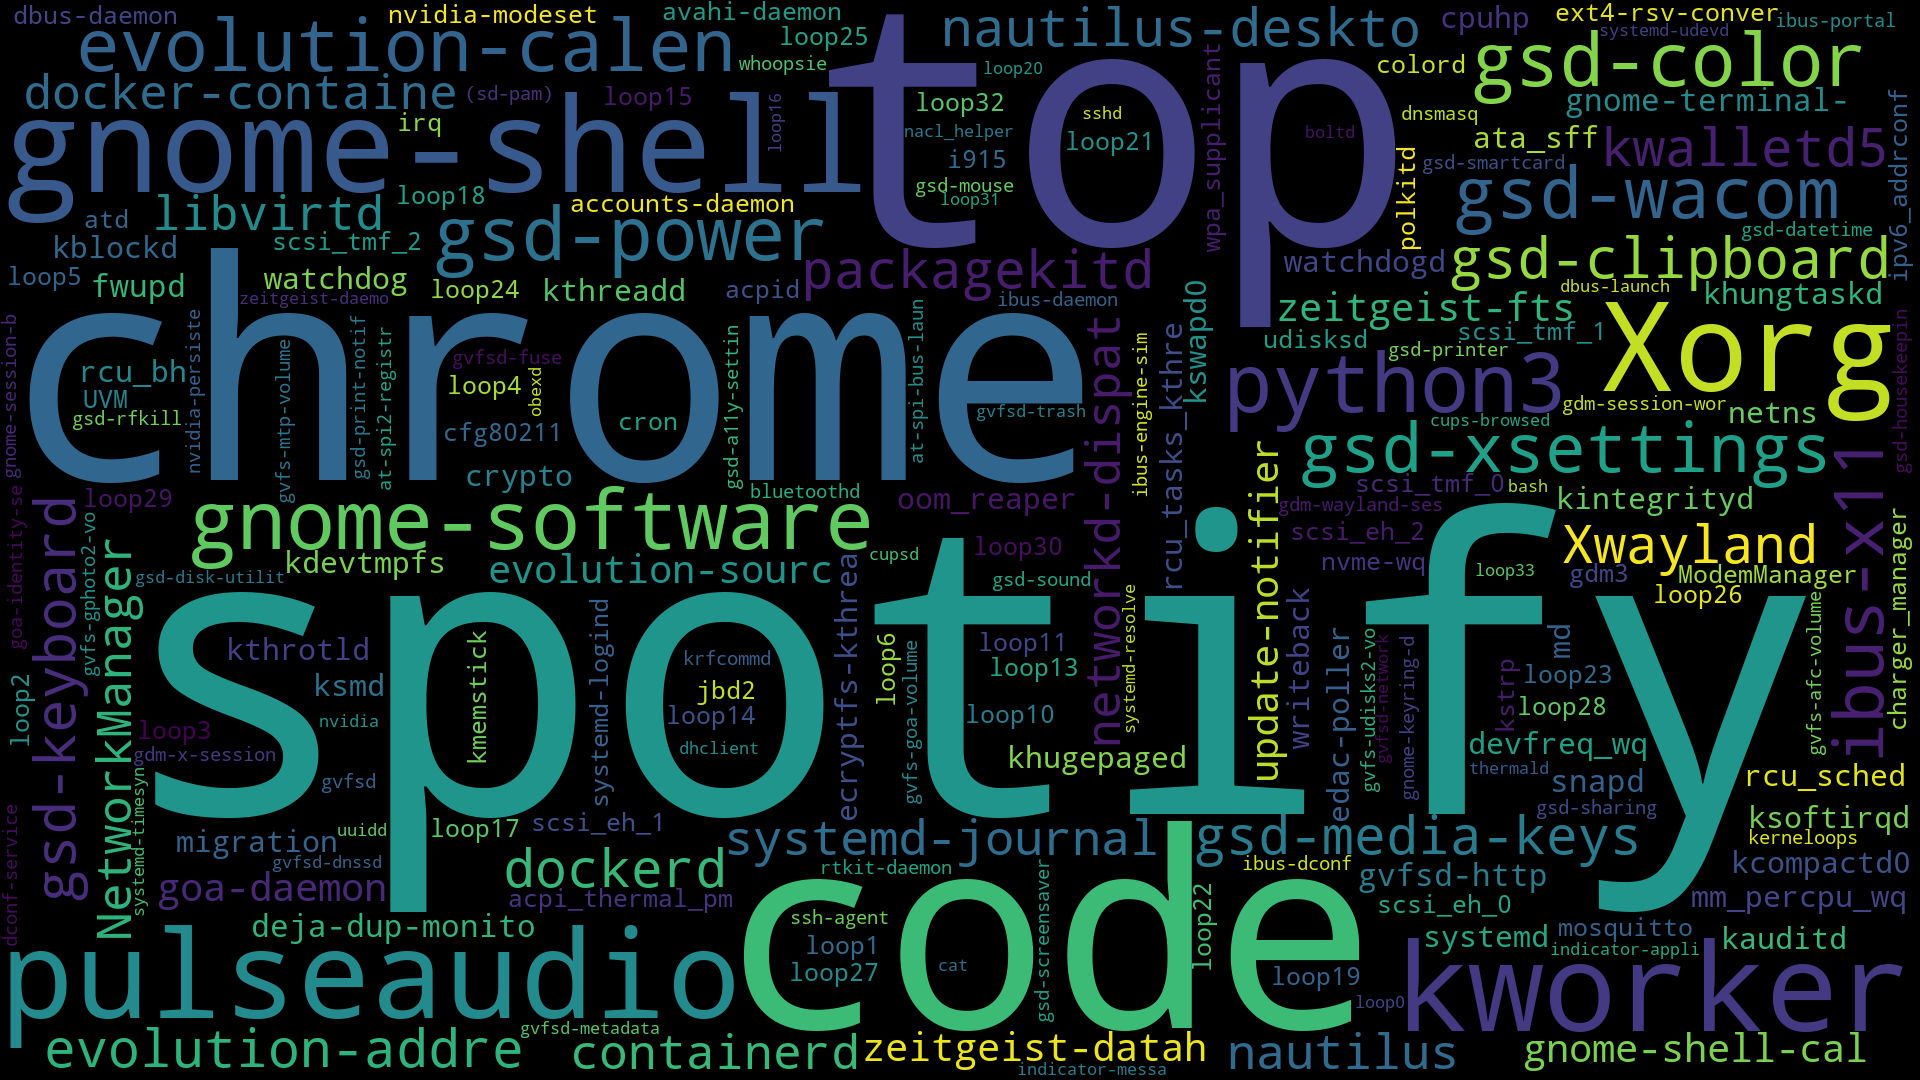
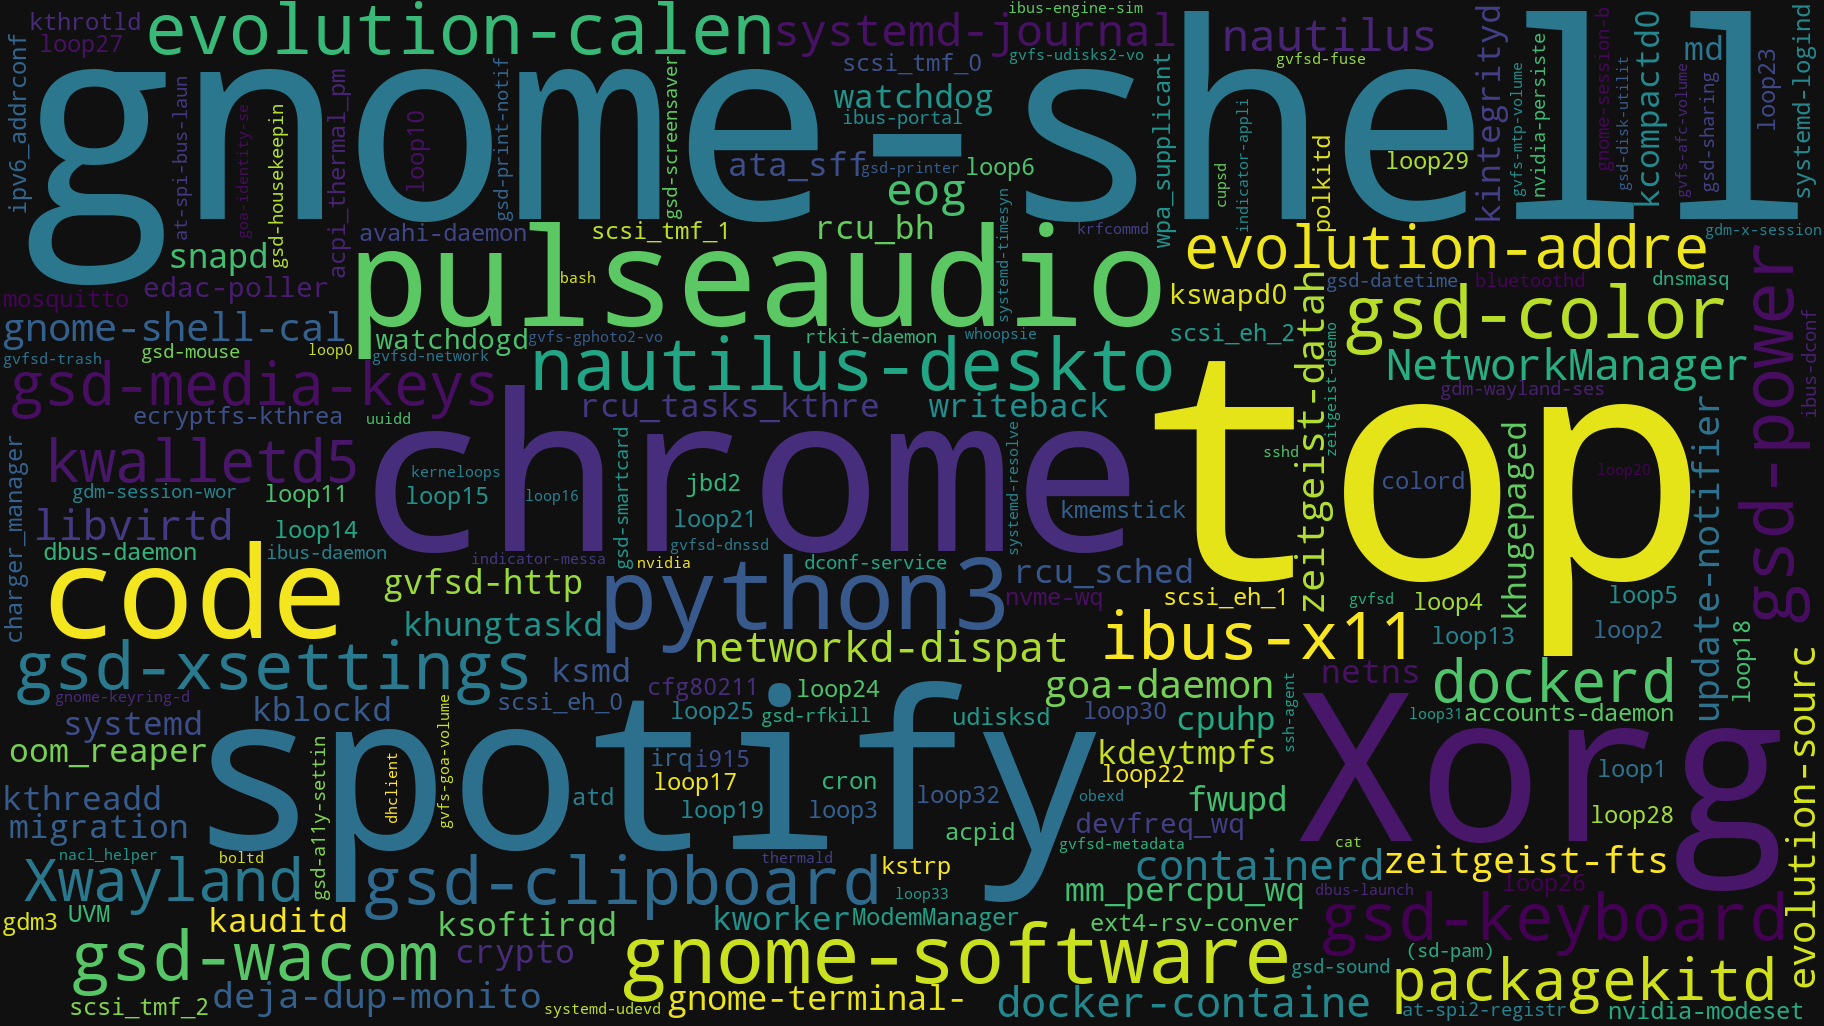
Created updateWallpaper.sh, config.json. Deleted some old files.

diff --git a/generateWallpaper.py b/generateWallpaper.py
@@ -1,0 +1,60 @@
+import re
+from PIL import Image
+from wordcloud import WordCloud
+import numpy as np
+import json
+
+commandList = []
+
+with open("top.out", "r") as topFile:
+    topOutput = topFile.read().split("\n")[7:]
+    
+    for line in topOutput[:-1]:
+        line = re.sub(r'\s+', ' ', line).strip()
+        fields = line.split(" ")
+        
+        if fields[11].count("/") > 0:
+            command = fields[11].split("/")[0]
+        else:
+            command = fields[11]
+        
+        cpu = float(fields[8])
+        mem = float(fields[9])
+
+        commandList.append((command, cpu, mem))
+    
+
+commandDict = {}
+
+for command, cpu, mem in commandList:
+    if command in commandDict:
+        commandDict[command][0] += cpu
+        commandDict[command][1] += mem
+    else:
+        commandDict[command] = [cpu + 1, mem + 1]
+
+resourceDict = {}
+
+for command, [cpu, mem] in commandDict.items():
+    resourceDict[command] = (cpu ** 2 + mem ** 2) ** 0.5
+
+configJSON = json.loads(open("config.json", "r").read())
+
+wc = WordCloud(
+    background_color = configJSON["wordcloud"]["background"],
+    width = int(configJSON["resolution"]["width"] * (1 - configJSON["wordcloud"]["margin"])),
+    height = int(configJSON["resolution"]["height"] * (1 - configJSON["wordcloud"]["margin"]))
+).generate_from_frequencies(resourceDict)
+
+wc.to_file('wc.png')
+
+wordcloud = Image.open("wc.png")
+wallpaper = Image.new('RGB', (configJSON["resolution"]["width"], configJSON["resolution"]["height"]), configJSON["wordcloud"]["background"])
+wallpaper.paste(
+    wordcloud, 
+    (
+        int(configJSON["resolution"]["width"] * configJSON["wordcloud"]["margin"] / 2), 
+        int(configJSON["resolution"]["height"] * configJSON["wordcloud"]["margin"] / 2)
+    )    
+)
+wallpaper.save("wallpaper.png")
